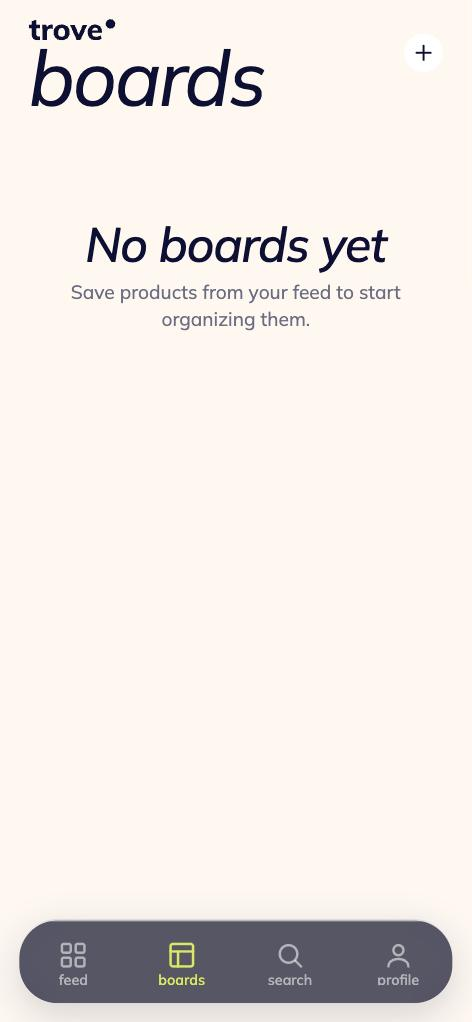
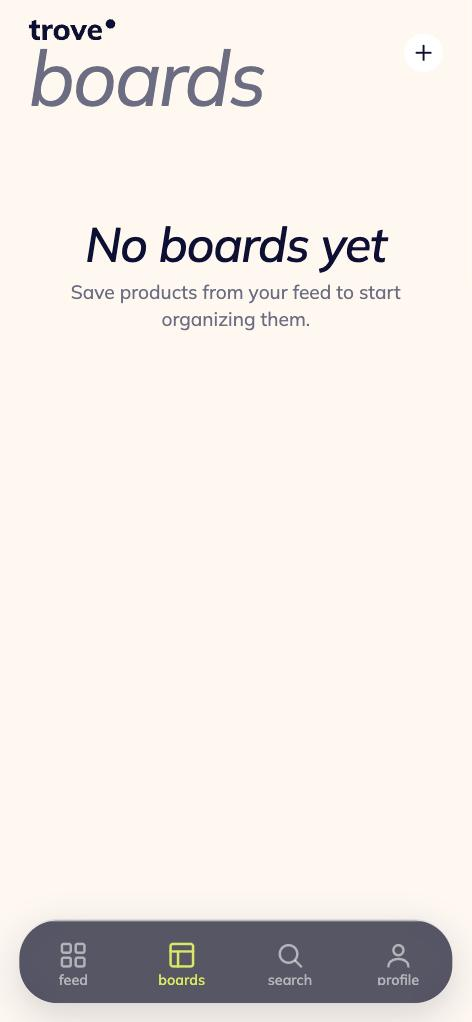
Restore every color to its value on main
Sam's rule is no color changes, values or roles. Card brand labels,
similar-product brand labels and board-detail prices go back to
accentBlue; the boards page title goes back to textMuted. Only type
and spacing differ from main now.

Changed region(s): [[0.0593, 0.0303, 0.5636, 0.1213]]

diff --git a/mobile/app/(tabs)/boards.tsx b/mobile/app/(tabs)/boards.tsx
@@ -135,7 +135,7 @@ export function BoardCard({ board, style }: { board: Board; style?: object }) {
 const styles = StyleSheet.create({
   root:      { flex: 1, backgroundColor: Colors.bg },
   titleRow:  { flexDirection: 'row', alignItems: 'flex-start', justifyContent: 'space-between', paddingHorizontal: Spacing.screen, paddingBottom: Spacing[3] },
-  pageLabel: { ...Typography.displayXl, color: Colors.text },
+  pageLabel: { ...Typography.displayXl, color: Colors.textMuted },
   newBoardBtn: { marginTop: Spacing[4], width: 32, height: 32, borderRadius: 16, backgroundColor: Colors.surface, alignItems: 'center', justifyContent: 'center' },
   newRow:    { flexDirection: 'row', gap: Spacing[3], paddingHorizontal: Spacing.screen, paddingBottom: Spacing[3] },
   newInput: {

diff --git a/mobile/app/board/[id].tsx b/mobile/app/board/[id].tsx
@@ -199,7 +199,7 @@ const styles = StyleSheet.create({
   cardInfo:   { padding: Spacing[3] },
   cardBrand:  { ...Typography.label, color: Colors.textMuted, marginBottom: Spacing[1] },
   cardName:   { ...Typography.caption, color: Colors.text, marginBottom: Spacing[1] },
-  cardPrice:  { ...Typography.price, color: Colors.textMuted },
+  cardPrice:  { ...Typography.price, color: Colors.accentBlue },
   empty:      { alignItems: 'center', paddingTop: 80, paddingHorizontal: 32 },
   emptyTitle: { ...Typography.display, color: Colors.text, textAlign: 'center', marginBottom: Spacing[3] },
   emptyBody:  { ...Typography.body, color: Colors.textMuted, textAlign: 'center' },

diff --git a/mobile/src/components/ProductDetailContent.tsx b/mobile/src/components/ProductDetailContent.tsx
@@ -271,7 +271,7 @@ const styles = StyleSheet.create({
   },
   similarImg:     { width: 132, height: 176 },
   similarInfo:    { padding: Spacing[3], backgroundColor: Colors.surface },
-  similarBrand:   { ...Typography.label, color: Colors.textMuted, marginBottom: 3 },
+  similarBrand:   { ...Typography.label, color: Colors.accentBlue, marginBottom: 3 },
   similarName:    { ...Typography.caption, color: Colors.text, marginBottom: 3 },
   similarPrice:   { ...Typography.price, color: Colors.textMuted },
 

diff --git a/mobile/src/components/ProductCard.tsx b/mobile/src/components/ProductCard.tsx
@@ -110,7 +110,7 @@ const styles = StyleSheet.create({
   },
   brand: {
     ...Typography.label,
-    color:        Colors.textMuted,
+    color:        Colors.accentBlue,
     marginBottom: 3,
   },
   name: {
